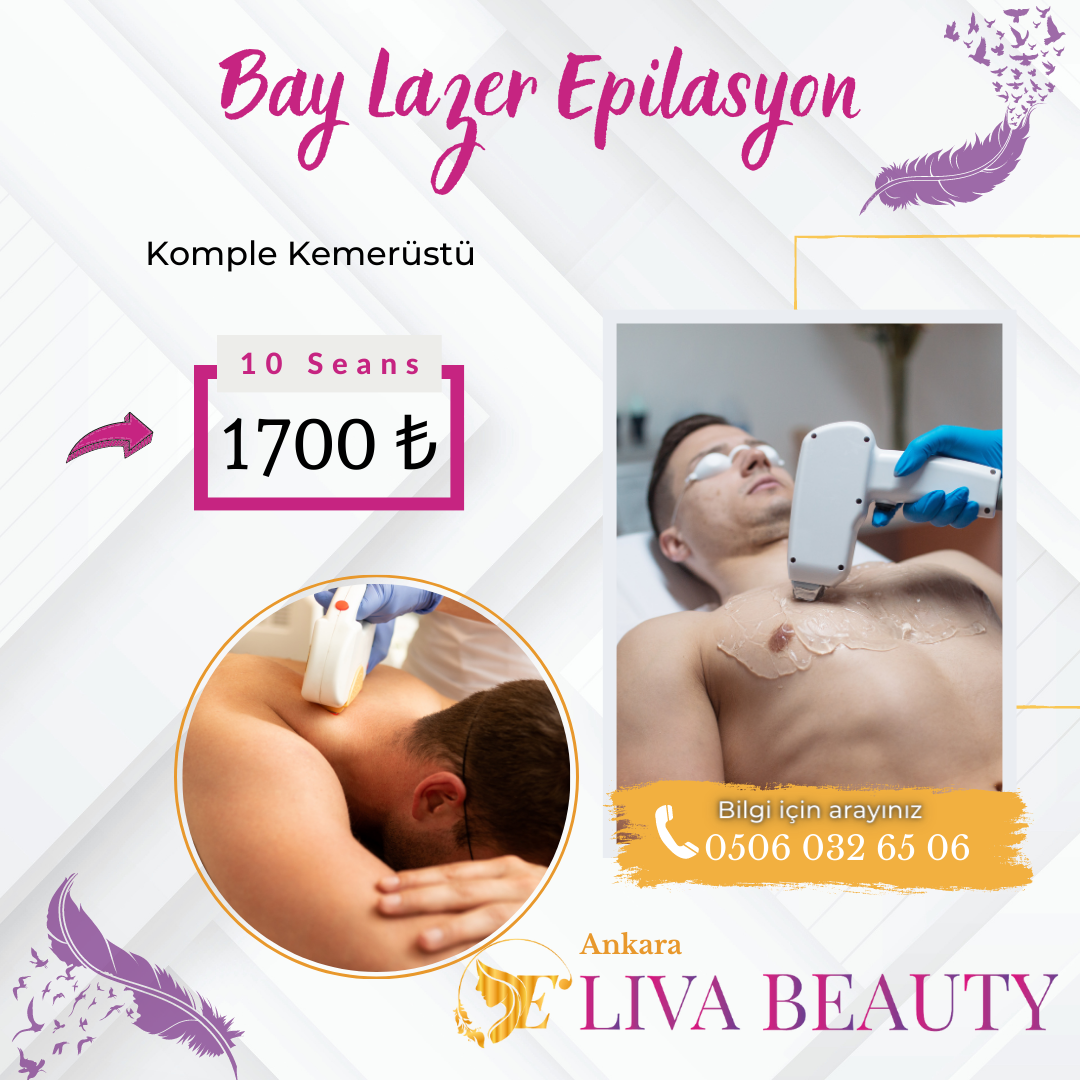
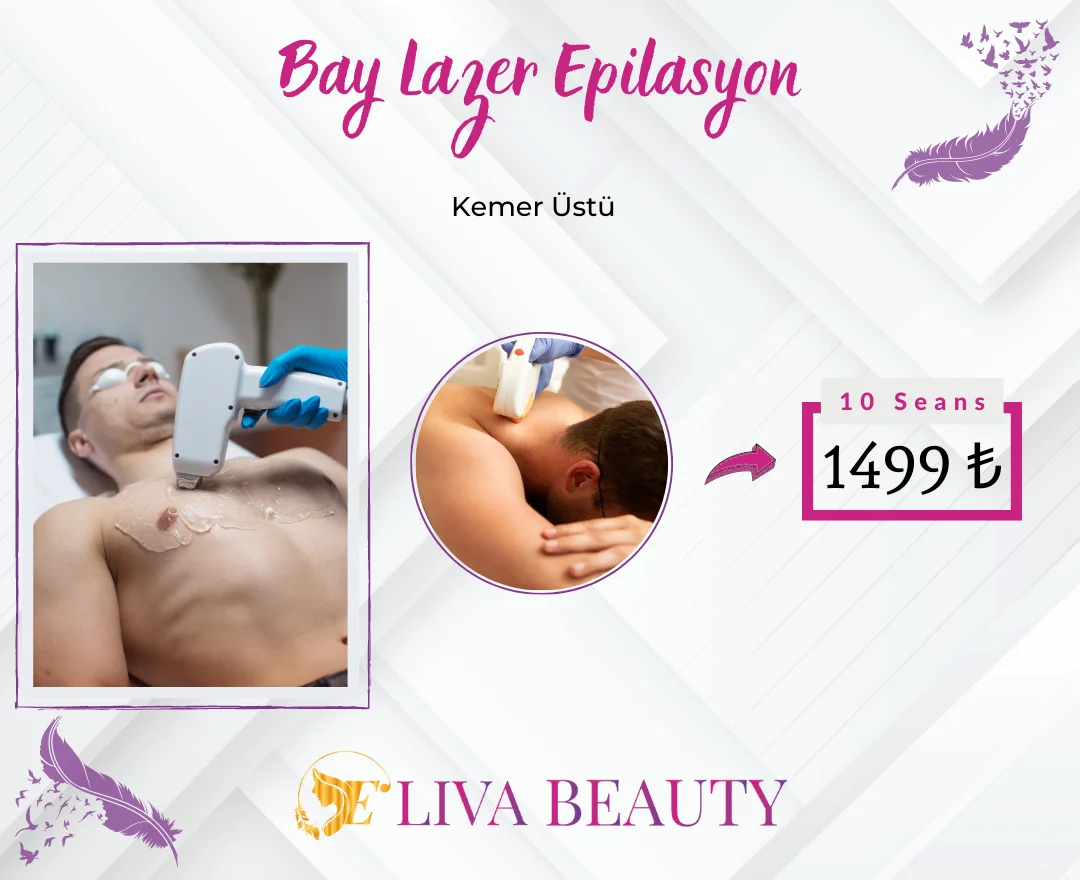
v1.7

diff --git a/src/components/klinik/Klinik.js b/src/components/klinik/Klinik.js
@@ -1,8 +1,8 @@
-import React from 'react'
-import './Klinik.css';
-import OwlCarousel from 'react-owl-carousel';
-import 'owl.carousel/dist/assets/owl.carousel.min.css'
-import 'owl.carousel/dist/assets/owl.theme.default.min.css'
+import React from "react";
+import "./Klinik.css";
+import OwlCarousel from "react-owl-carousel";
+import "owl.carousel/dist/assets/owl.carousel.min.css";
+import "owl.carousel/dist/assets/owl.theme.default.min.css";
 import k1 from "./kampanyalar/1.webp";
 import k2 from "./kampanyalar/2.webp";
 import k3 from "./kampanyalar/3.webp";
@@ -10,87 +10,98 @@ import k4 from "./kampanyalar/4.webp";
 import k5 from "./kampanyalar/5.webp";
 import k6 from "./kampanyalar/6.webp";
 import k7 from "./kampanyalar/7.webp";
-
-
-
+import k8 from "./kampanyalar/8.webp";
+import k9 from "./kampanyalar/9.webp";
 
 import KampComp from "./KlinikComp.js";
 
-
-
-
-
 //Owl Carousel Settings
 const options = {
-    margin: 5,
-    responsiveClass: true,
-    autoplayHoverPause:false,
-    dots:2,
-    autoplay: true,
-    loop:true,
-    dotsSpeed:2,
-    navText: ["",""],
-    smartSpeed: 1000,
-    responsive: {
-        0: {
-            items: 1,
-        },
-        400: {
-            items: 1,
-        },
-        600: {
-            items: 2,
-        },
-        700: {
-            items: 2,
-        },
-        1000: {
-            items: 3,
-        }
+  margin: 5,
+  responsiveClass: true,
+  autoplayHoverPause: false,
+  dots: 2,
+  autoplay: true,
+  loop: true,
+  dotsSpeed: 2,
+  navText: ["", ""],
+  smartSpeed: 1000,
+  responsive: {
+    0: {
+      items: 1,
     },
-  };
-
+    400: {
+      items: 1,
+    },
+    600: {
+      items: 2,
+    },
+    700: {
+      items: 2,
+    },
+    1000: {
+      items: 3,
+    },
+  },
+};
 
 export default function Klinik() {
-    return (
-        <div class="col-12" style={{width:"100%",display:"flex",justifyContent:"center",flexWrap:"wrap",zIndex: "1000"}}>
-            <OwlCarousel className="owl-theme owl-roof" {...options}>
-                 
-               <KampComp
-                    kampanyaResim={k1}
-                    kampanyaAd="https://wa.me/+905060326506?text=Merhaba%2C%20Bayanlar%20i%C3%A7in%20T%C3%BCm%20Kol%2C%20Koltukalt%C4%B1%2C%20T%C3%BCm%20Bacak%2C%20Genital%20B%C3%B6lge%20ve%20Popo%20Lazer%20Epilasyon%20(1700%E2%82%BA)%20kampanyas%C4%B1%20hakk%C4%B1nda%20bilgi%20alabilir%20miyim%3F"
-                />
+  return (
+    <div
+      class="col-12"
+      style={{
+        width: "100%",
+        display: "flex",
+        justifyContent: "center",
+        flexWrap: "wrap",
+        zIndex: "1000",
+      }}
+    >
+      <OwlCarousel className="owl-theme owl-roof" {...options}>
+        <KampComp
+          kampanyaResim={k1}
+          kampanyaAd="https://wa.me/+905060326506?text=Merhaba%2C%20T%C3%BCm%20Kol%20-%20Koltukalt%C4%B1%20-%20T%C3%BCm%20Bacak%20-%20Genital%20-%20Popo%201499%E2%82%BA%20bayan%20epilasyon%20kampanyas%C4%B1%20hakk%C4%B1nda%20bilgi%20alabilir%20miyim%3F"
+        />
 
-                <KampComp
-                    kampanyaResim={k2}
-                    kampanyaAd="https://wa.me/+905060326506?text=Merhaba%2C%20Bayanlar%20i%C3%A7in%20Koltukalt%C4%B1%2C%20T%C3%BCm%20Bacak%20ve%20Genital%20B%C3%B6lge%20Lazer%20Epilasyon%20(1200%E2%82%BA)%20kampanyas%C4%B1%20hakk%C4%B1nda%20bilgi%20alabilir%20miyim%3F"
-                />
-                <KampComp
-                    kampanyaResim={k3}
-                    kampanyaAd="https://wa.me/+905060326506?text=Merhaba%2C%20Tepeden%20T%C4%B1rna%C4%9Fa%20T%C3%BCm%20V%C3%BCcut%20Lazer%20Epilasyon%20(2800%E2%82%BA)%20kampanyas%C4%B1%20hakk%C4%B1nda%20bilgi%20alabilir%20miyim%3F"
-                />
+        <KampComp
+          kampanyaResim={k2}
+          kampanyaAd="https://wa.me/+905060326506?text=Merhaba%2C%20Koltukalt%C4%B1%20-%20T%C3%BCm%20Bacak%20-%20Genital%20B%C3%B6lge%20999%E2%82%BA%20bayan%20epilasyon%20kampanyas%C4%B1%20hakk%C4%B1nda%20bilgi%20alabilir%20miyim%3F"
+        />
+        <KampComp
+          kampanyaResim={k3}
+          kampanyaAd="https://wa.me/+905060326506?text=Merhaba%2C%20Tepeden%20T%C4%B1rna%C4%9Fa%20T%C3%BCm%20V%C3%BCcut%202500%E2%82%BA%20bayan%20epilasyon%20kampanyas%C4%B1%20hakk%C4%B1nda%20bilgi%20alabilir%20miyim%3F"
+        />
 
-                <KampComp
-                    kampanyaResim={k4}
-                    kampanyaAd="https://wa.me/+905060326506?text=Merhaba%2C%20Bayanlar%20i%C3%A7in%20Y%C3%BCz%20B%C3%B6lgesi%20Lazer%20Epilasyon%20(650%E2%82%BA)%20kampanyas%C4%B1%20hakk%C4%B1nda%20bilgi%20alabilir%20miyim%3F"
-                />
+        <KampComp
+          kampanyaResim={k4}
+          kampanyaAd="https://wa.me/+905060326506?text=Merhaba%2C%20Y%C3%BCz%20B%C3%B6lgesi%20650%E2%82%BA%20bayan%20epilasyon%20kampanyas%C4%B1%20hakk%C4%B1nda%20bilgi%20alabilir%20miyim%3F"
+        />
 
-                <KampComp
-                    kampanyaResim={k5}
-                    kampanyaAd="https://wa.me/+905060326506?text=Merhaba%2C%20Erkekler%20i%C3%A7in%20Ense%2C%20Boyun%20ve%20Yanak%20Lazer%20Epilasyon%20(650%E2%82%BA)%20kampanyas%C4%B1%20hakk%C4%B1nda%20bilgi%20alabilir%20miyim%3F"
-                />
+        <KampComp
+          kampanyaResim={k5}
+          kampanyaAd="https://wa.me/+905060326506?text=Merhaba%2C%20Ense%20-%20Boyun%20-%20Yanak%20650%E2%82%BA%20bay%20epilasyon%20kampanyas%C4%B1%20hakk%C4%B1nda%20bilgi%20alabilir%20miyim%3F"
+        />
 
-                <KampComp
-                    kampanyaResim={k6}
-                    kampanyaAd="https://wa.me/+905060326506?text=Merhaba%2C%20Komple%20Kemer%C3%BCst%C3%BC%20Lazer%20Epilasyon%20(1700%E2%82%BA)%20kampanyas%C4%B1%20hakk%C4%B1nda%20bilgi%20alabilir%20miyim%3F"
-                />
+        <KampComp
+          kampanyaResim={k6}
+          kampanyaAd="https://wa.me/+905060326506?text=Merhaba%2C%20Kemer%20%C3%9Cst%C3%BC%201499%E2%82%BA%20bay%20epilasyon%20kampanyas%C4%B1%20hakk%C4%B1nda%20bilgi%20alabilir%20miyim%3F"
+        />
 
-                <KampComp
-                    kampanyaResim={k7}
-                    kampanyaAd="https://wa.me/+905060326506?text=Merhaba%2C%20Erkekler%20i%C3%A7in%20Tepeden%20T%C4%B1rna%C4%9Fa%20T%C3%BCm%20V%C3%BCcut%20Lazer%20Epilasyon%20(4000%E2%82%BA)%20kampanyas%C4%B1%20hakk%C4%B1nda%20bilgi%20alabilir%20miyim%3F"
-                />
-            </OwlCarousel>
-        </div>    
-    )
+        <KampComp
+          kampanyaResim={k7}
+          kampanyaAd="https://wa.me/+905060326506?text=Merhaba%2C%204%20Seans%20Hydrafacial%20Cilt%20Bak%C4%B1m%C4%B1%20kampanyas%C4%B1%20(699%E2%82%BA)%20%20hakk%C4%B1nda%20bilgi%20alabilir%20miyim%3F"
+        />
+
+        <KampComp
+          kampanyaResim={k8}
+          kampanyaAd="https://wa.me/+905060326506?text=Merhaba%2C%206%20Seans%20G5%20Masaj%C4%B1%20kampanyas%C4%B1%20(599%E2%82%BA)%20%20hakk%C4%B1nda%20bilgi%20alabilir%20miyim%3F"
+        />
+
+        <KampComp
+          kampanyaResim={k9}
+          kampanyaAd="https://wa.me/+905060326506?text=Merhaba%2C%206%20Seans%20B%C3%B6lgesel%20%C4%B0ncelme%20kampanyas%C4%B1%20(699%E2%82%BA)%20%20hakk%C4%B1nda%20bilgi%20alabilir%20miyim%3F"
+        />
+      </OwlCarousel>
+    </div>
+  );
 }
-
